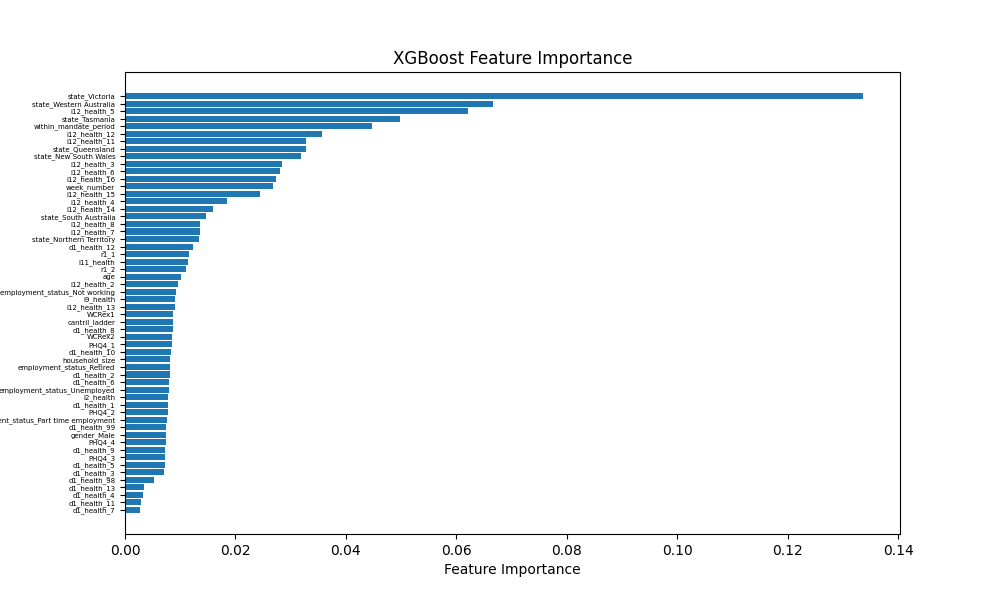
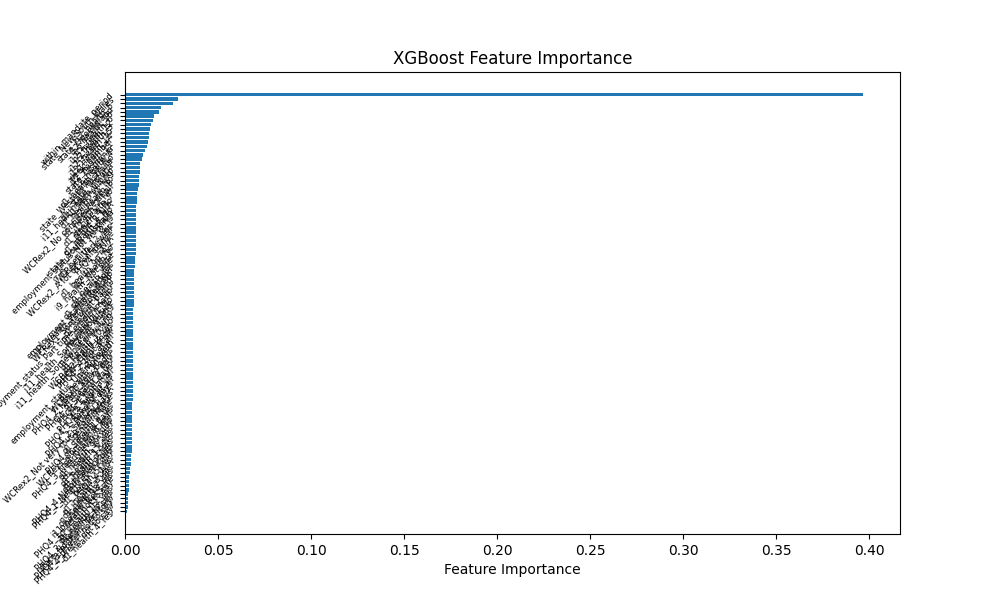
final model

diff --git a/code/XGBoost/5_best_model.py b/code/XGBoost/5_best_model.py
@@ -5,10 +5,11 @@ from sklearn.model_selection import train_test_split
 from sklearn.model_selection import cross_val_score, KFold
 from sklearn.metrics import roc_auc_score, roc_curve, auc
 import matplotlib.pyplot as plt
-import xgboost as xgb, plot_tree
+import xgboost as xgb
+from sklearn.metrics import confusion_matrix
 
 # Read in json file with highest value
-f = open('data/xgb_trial_best.json', 'r')
+f = open('../data/xgb_trial_best.json', 'r')
 obj = json.loads(f.read())
 
 # create parameters variables
@@ -18,8 +19,8 @@ for parm in obj['params']:
 
 f.close()
 
-X_train = pd.read_csv("data/X_train.csv", keep_default_na = False)
-y_train = pd.read_csv("data/y_train.csv", keep_default_na = False).values.ravel()
+X_train = pd.read_csv("../data/X_train.csv", keep_default_na = False)
+y_train = pd.read_csv("../data/y_train.csv", keep_default_na = False).values.ravel()
 
 xgb_model = xgb.XGBClassifier(
                         learning_rate=param_values[0],
@@ -35,6 +36,16 @@ xgb_model = xgb.XGBClassifier(
                         objective="binary:logistic",
 )
 
+X_test = pd.read_csv("../data/X_test.csv", keep_default_na = False)
+y_test = pd.read_csv("../data/y_test.csv", keep_default_na = False)
+
+xgb_model.fit(X_train, y_train)
+y_pred_xgb = xgb_model.predict(X_test)
+
+#  Confusion matrix
+confusion_matrix = confusion_matrix(y_test, y_pred_xgb)
+print(f"The confusion matrix is {confusion_matrix}")
+
 # Print the accuracy scores for 10-folder cross validation
 kf = KFold(n_splits=10)
 score = cross_val_score(xgb_model, X_train, y_train, cv=kf, scoring='accuracy')
@@ -42,12 +53,6 @@ print("Cross-validation scores:", score)
 print("Mean accuracy:", score.mean())
 
 # print cross validation ROC curve
-X_test = pd.read_csv("data/X_test.csv", keep_default_na = False)
-y_test = pd.read_csv("data/y_test.csv", keep_default_na = False)
-
-xgb_model.fit(X_train, y_train)
-y_pred_xgb_model = xgb_model.predict(X_test)
-
 # Split dataset into training set and test set
 y_pred_proba = xgb_model.predict_proba(X_test)[:, 1]
 
@@ -68,7 +73,7 @@ plt.xlabel('False Positive Rate')
 plt.ylabel('True Positive Rate')
 plt.title('Receiver Operating Characteristic (ROC) Curve')
 plt.legend(loc='lower right')
-plt.savefig("figures/xgb_roc_curve.png")
+plt.savefig("../figures/xgb_roc_curve.png")
 
 # Explore the feature importance
 sort = xgb_model.feature_importances_.argsort()
@@ -76,9 +81,9 @@ plt.figure(figsize=(10, 6))
 plt.barh(X_train.columns[sort], xgb_model.feature_importances_[sort])
 plt.xlabel("Feature Importance")
 plt.title("XGBoost Feature Importance")
-plt.yticks(fontsize=5)
-plt.savefig("figures/xgb_feature_importance.png")
+plt.yticks(fontsize=6, rotation=45)
+plt.savefig("../figures/xgb_feature_importance.png")
 
 # visualize the xgboost tree
-plot_tree(xgb_model)
-plt.savefig("figures/xgb_visual.png")
+# plot_tree(xgb_model)
+# plt.savefig("../figures/xgb_visual.png")

diff --git a/code/RF/5_best_model.py b/code/RF/5_best_model.py
@@ -8,7 +8,7 @@ import matplotlib.pyplot as plt
 from sklearn.metrics import confusion_matrix
 
 # Read in json file with highest value
-f = open('data/rf_trial_best.json', 'r')
+f = open('../data/rf_trial_best.json', 'r')
 obj = json.loads(f.read())
 
 # create parameters variables
@@ -18,18 +18,17 @@ for parm in obj['params']:
 
 f.close()
 
-X_train = pd.read_csv("data/X_train.csv", keep_default_na = False)
-y_train = pd.read_csv("data/y_train.csv", keep_default_na = False).values.ravel()
+X_train = pd.read_csv("../data/X_train.csv", keep_default_na = False)
+y_train = pd.read_csv("../data/y_train.csv", keep_default_na = False).values.ravel()
 
 rf = RandomForestClassifier(
                             n_estimators=1000,
-                            max_depth= param_values[0],
-                            min_samples_split =param_values[1],
-                            min_samples_leaf = param_values[2]
+                            ccp_alpha= param_values[0],
+                            min_impurity_decrease =param_values[1]
                             )
 
-X_test = pd.read_csv("data/X_test.csv", keep_default_na = False)
-y_test = pd.read_csv("data/y_test.csv", keep_default_na = False).values.ravel()
+X_test = pd.read_csv("../data/X_test.csv", keep_default_na = False)
+y_test = pd.read_csv("../data/y_test.csv", keep_default_na = False).values.ravel()
 rf.fit(X_train, y_train)
 y_pred_rf = rf.predict(X_test)
 
@@ -62,7 +61,7 @@ plt.xlabel('False Positive Rate')
 plt.ylabel('True Positive Rate')
 plt.title('Receiver Operating Characteristic (ROC) Curve')
 plt.legend(loc='lower right')
-plt.savefig("figures/rf_roc_curve.png")
+plt.savefig("../figures/rf_roc_curve.png")
 
 # Explore the feature importance
 sort = rf.feature_importances_.argsort()
@@ -70,5 +69,5 @@ plt.figure(figsize=(10, 6))
 plt.barh(X_train.columns[sort], rf.feature_importances_[sort])
 plt.xlabel("Feature Importance")
 plt.title("Random Forest Feature Importance")
-plt.yticks(fontsize=5)
-plt.savefig("figures/rf_feature_importance.png")
+plt.yticks(fontsize=6, rotation=45)
+plt.savefig("../figures/rf_feature_importance.png")
